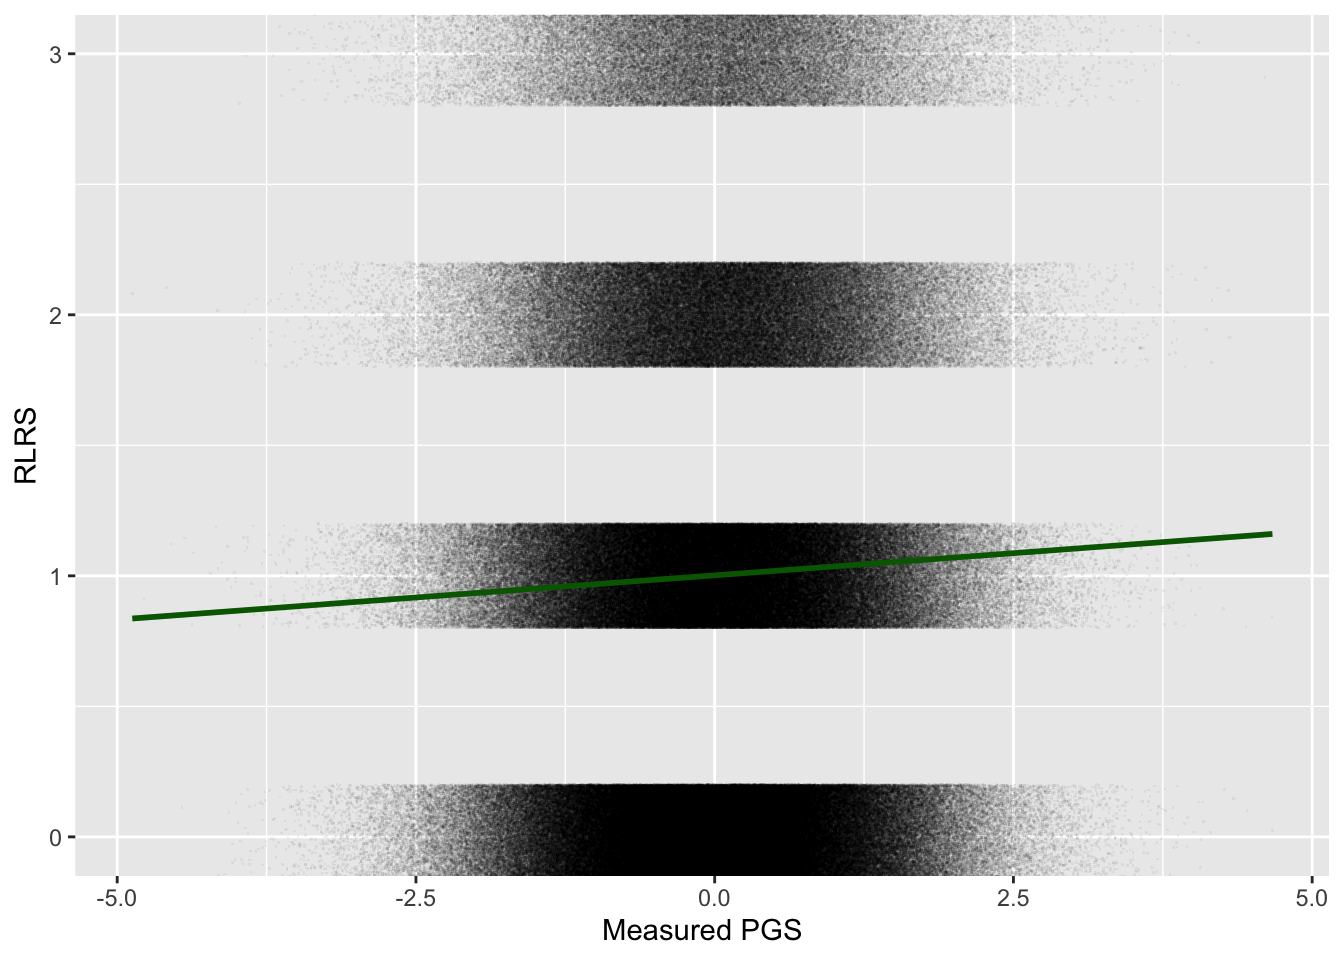
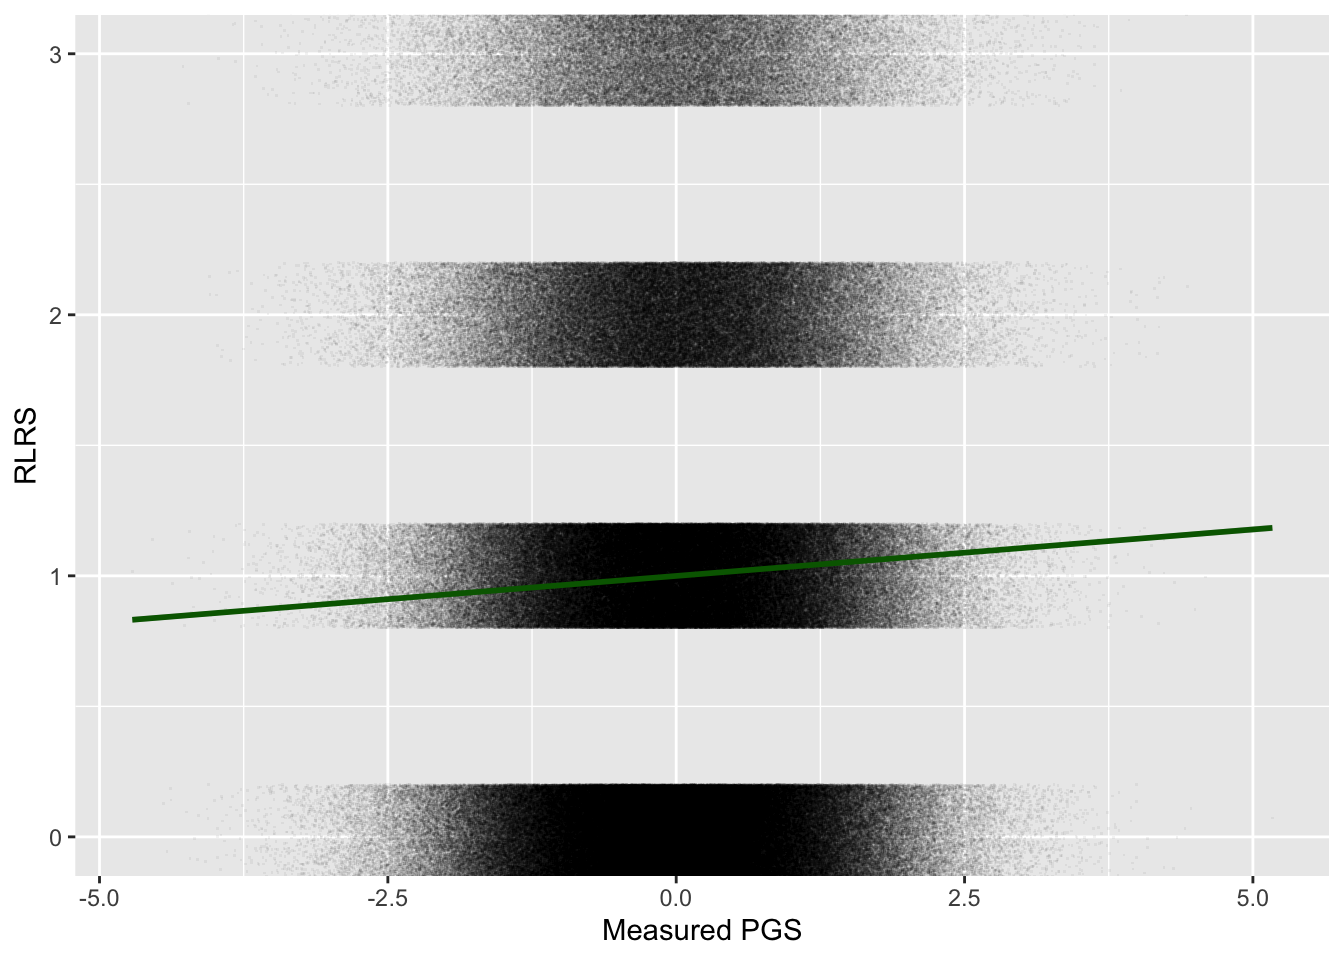
add a missing asterisk

diff --git a/docs/estimating-selection-effects-idiots-guide.html b/docs/estimating-selection-effects-idiots-guide.html
@@ -195,7 +195,7 @@ code span.wa { color: #60a0b0; font-weight: bold; font-style: italic; } /* Warni
 <div class="sourceCode cell-code" id="cb4"><pre class="sourceCode r code-with-copy"><code class="sourceCode r"><span id="cb4-1"><a href="#cb4-1" aria-hidden="true" tabindex="-1"></a><span class="co"># Our PGS is normalized with mean 0 variance 1:</span></span>
 <span id="cb4-2"><a href="#cb4-2" aria-hidden="true" tabindex="-1"></a><span class="fu">mean</span>(pop<span class="sc">$</span>pgs_true)</span></code><button title="Copy to Clipboard" class="code-copy-button"><i class="bi"></i></button></pre></div>
 <div class="cell-output cell-output-stdout">
-<pre><code>[1] 0.000547</code></pre>
+<pre><code>[1] 0.000928</code></pre>
 </div>
 <div class="sourceCode cell-code" id="cb6"><pre class="sourceCode r code-with-copy"><code class="sourceCode r"><span id="cb6-1"><a href="#cb6-1" aria-hidden="true" tabindex="-1"></a><span class="fu">var</span>(pop<span class="sc">$</span>pgs_true)</span></code><button title="Copy to Clipboard" class="code-copy-button"><i class="bi"></i></button></pre></div>
 <div class="cell-output cell-output-stdout">
@@ -257,7 +257,7 @@ pgs = pgs^* + \eta
 <p>where <span class="math inline">\(\eta \sim N(0,\sigma^2_\eta)\)</span>. So <span class="math inline">\(\sigma^2_\eta\)</span> gives the relative amount of error in our measured PGS.</p>
 <p>Of course, we don’t see that variable. If so, we could just calculate <span class="math inline">\(\sigma^2_\eta\)</span> directly by looking at its variance! Instead, we get a standardized PGS with mean 0 variance 1 and we have to estimate how much of that is noise:</p>
 <p><span class="math display">\[
-pgs = \frac{pgs^* + \eta}{sd(pgs)}
+pgs = \frac{pgs^* + \eta}{sd(pgs^*)}
 \]</span></p>
 <div class="cell">
 <div class="sourceCode cell-code" id="cb18"><pre class="sourceCode r code-with-copy"><code class="sourceCode r"><span id="cb18-1"><a href="#cb18-1" aria-hidden="true" tabindex="-1"></a><span class="co"># this is the variance of the error in measured pgs</span></span>
@@ -301,19 +301,19 @@ R^2 (pgs) = R^2 (pgs^*)\times \frac{Var(pgs^*)}{Var(pgs)} \\
 <span id="cb21-2"><a href="#cb21-2" aria-hidden="true" tabindex="-1"></a>cov_rlrs_pgs <span class="ot">&lt;-</span> <span class="fu">cov</span>(pop<span class="sc">$</span>rlrs, pop<span class="sc">$</span>pgs)</span>
 <span id="cb21-3"><a href="#cb21-3" aria-hidden="true" tabindex="-1"></a>cov_rlrs_pgs</span></code><button title="Copy to Clipboard" class="code-copy-button"><i class="bi"></i></button></pre></div>
 <div class="cell-output cell-output-stdout">
-<pre><code>[1] 0.0339</code></pre>
+<pre><code>[1] 0.0356</code></pre>
 </div>
 <div class="sourceCode cell-code" id="cb23"><pre class="sourceCode r code-with-copy"><code class="sourceCode r"><span id="cb23-1"><a href="#cb23-1" aria-hidden="true" tabindex="-1"></a><span class="co"># Or equivalently, since the pgs has variance 1</span></span>
 <span id="cb23-2"><a href="#cb23-2" aria-hidden="true" tabindex="-1"></a>coef_pgs <span class="ot">&lt;-</span> <span class="fu">coef</span>(<span class="fu">lm</span>(rlrs <span class="sc">~</span> pgs, pop))[<span class="st">"pgs"</span>]</span>
 <span id="cb23-3"><a href="#cb23-3" aria-hidden="true" tabindex="-1"></a>coef_pgs</span></code><button title="Copy to Clipboard" class="code-copy-button"><i class="bi"></i></button></pre></div>
 <div class="cell-output cell-output-stdout">
 <pre><code>   pgs 
-0.0339 </code></pre>
+0.0356 </code></pre>
 </div>
 <div class="sourceCode cell-code" id="cb25"><pre class="sourceCode r code-with-copy"><code class="sourceCode r"><span id="cb25-1"><a href="#cb25-1" aria-hidden="true" tabindex="-1"></a><span class="co"># which is close to the average in the next generation:</span></span>
 <span id="cb25-2"><a href="#cb25-2" aria-hidden="true" tabindex="-1"></a><span class="fu">weighted.mean</span>(pop<span class="sc">$</span>pgs, pop<span class="sc">$</span>rlrs)</span></code><button title="Copy to Clipboard" class="code-copy-button"><i class="bi"></i></button></pre></div>
 <div class="cell-output cell-output-stdout">
-<pre><code>[1] 0.0339</code></pre>
+<pre><code>[1] 0.0352</code></pre>
 </div>
 </div>
 <p>Compare the plot of measured PGS <span class="math inline">\(p\)</span> against RLRS to the previous plot, which used the true PGS <span class="math inline">\(p^*\)</span>:</p>
@@ -361,8 +361,8 @@ R^2 (pgs) = R^2 (pgs^*)\times \frac{Var(pgs^*)}{Var(pgs)} \\
 <div class="sourceCode cell-code" id="cb30"><pre class="sourceCode r code-with-copy"><code class="sourceCode r"><span id="cb30-1"><a href="#cb30-1" aria-hidden="true" tabindex="-1"></a><span class="co"># Ratio of coefficients...</span></span>
 <span id="cb30-2"><a href="#cb30-2" aria-hidden="true" tabindex="-1"></a>coef_pgs<span class="sc">/</span>coef_pgs_true_rescaled</span></code><button title="Copy to Clipboard" class="code-copy-button"><i class="bi"></i></button></pre></div>
 <div class="cell-output cell-output-stdout">
-<pre><code>  pgs 
-0.115 </code></pre>
+<pre><code> pgs 
+0.12 </code></pre>
 </div>
 <div class="sourceCode cell-code" id="cb32"><pre class="sourceCode r code-with-copy"><code class="sourceCode r"><span id="cb32-1"><a href="#cb32-1" aria-hidden="true" tabindex="-1"></a><span class="co"># ... is indeed close to ratio of R2 on education, to heritability</span></span>
 <span id="cb32-2"><a href="#cb32-2" aria-hidden="true" tabindex="-1"></a>r2_EA_pgs<span class="sc">/</span>h2</span></code><button title="Copy to Clipboard" class="code-copy-button"><i class="bi"></i></button></pre></div>
@@ -372,7 +372,7 @@ R^2 (pgs) = R^2 (pgs^*)\times \frac{Var(pgs^*)}{Var(pgs)} \\
 </div>
 <p>Of course, as analysts, we don’t observe the real rescaled PGS. We can only check this here because we have simulated our data!</p>
 <p><strong>Step 2.</strong> We want to measure the selection effect of the true PGS in its original form, i.e.&nbsp;with mean 0 and standard deviation 1.</p>
-<p>Recall that the measured PGS was “rescaled” by its standard deviation. This standard deviation (<code>sd_pgs_orig</code> in the code above, which equalled 2.826) is the square root of the total variance of the measured PGS on its original scale:</p>
+<p>Recall that the measured PGS was “rescaled” by its standard deviation. This standard deviation (<code>sd_pgs_orig</code> in the code above, which equalled 2.828) is the square root of the total variance of the measured PGS on its original scale:</p>
 <p><span class="math display">\[
 sd(orig. pgs) =\sqrt{1 + \sigma^2_\eta}
 \]</span></p>
@@ -383,7 +383,7 @@ sd(orig. pgs) =\sqrt{1 + \sigma^2_\eta}
 <span id="cb34-2"><a href="#cb34-2" aria-hidden="true" tabindex="-1"></a></span>
 <span id="cb34-3"><a href="#cb34-3" aria-hidden="true" tabindex="-1"></a>cov_rlrs_pgs_true_hat</span></code><button title="Copy to Clipboard" class="code-copy-button"><i class="bi"></i></button></pre></div>
 <div class="cell-output cell-output-stdout">
-<pre><code>[1] 0.0961</code></pre>
+<pre><code>[1] 0.101</code></pre>
 </div>
 </div>
 <p>And indeed this is close to the original selection effect of 0.1 .</p>
@@ -420,18 +420,18 @@ sd(orig. pgs) =\sqrt{1 + \sigma^2_\eta}
 <div class="sourceCode cell-code" id="cb38"><pre class="sourceCode r code-with-copy"><code class="sourceCode r"><span id="cb38-1"><a href="#cb38-1" aria-hidden="true" tabindex="-1"></a><span class="co"># the selection effect in terms of predicted years of education:</span></span>
 <span id="cb38-2"><a href="#cb38-2" aria-hidden="true" tabindex="-1"></a><span class="fu">cov</span>(pop<span class="sc">$</span>rlrs, pop<span class="sc">$</span>pgs_true_years)</span></code><button title="Copy to Clipboard" class="code-copy-button"><i class="bi"></i></button></pre></div>
 <div class="cell-output cell-output-stdout">
-<pre><code>[1] 0.14</code></pre>
+<pre><code>[1] 0.141</code></pre>
 </div>
 <div class="sourceCode cell-code" id="cb40"><pre class="sourceCode r code-with-copy"><code class="sourceCode r"><span id="cb40-1"><a href="#cb40-1" aria-hidden="true" tabindex="-1"></a><span class="fu">weighted.mean</span>(pop<span class="sc">$</span>pgs_true_years, pop<span class="sc">$</span>rlrs)</span></code><button title="Copy to Clipboard" class="code-copy-button"><i class="bi"></i></button></pre></div>
 <div class="cell-output cell-output-stdout">
-<pre><code>[1] 0.141</code></pre>
+<pre><code>[1] 0.142</code></pre>
 </div>
 <div class="sourceCode cell-code" id="cb42"><pre class="sourceCode r code-with-copy"><code class="sourceCode r"><span id="cb42-1"><a href="#cb42-1" aria-hidden="true" tabindex="-1"></a><span class="co"># our estimate of the selection effect, </span></span>
 <span id="cb42-2"><a href="#cb42-2" aria-hidden="true" tabindex="-1"></a><span class="co"># rescaled by the standard deviation of EA in years:</span></span>
 <span id="cb42-3"><a href="#cb42-3" aria-hidden="true" tabindex="-1"></a>cov_rlrs_pgs_true_hat <span class="sc">*</span> eff_pgs_true</span></code><button title="Copy to Clipboard" class="code-copy-button"><i class="bi"></i></button></pre></div>
 <div class="cell-output cell-output-stdout">
 <pre><code>pgs_true 
-   0.129 </code></pre>
+   0.136 </code></pre>
 </div>
 </div>
 <p>But how do we work out the rescaling factor? We can work it out by taking the square root of the heritability (as an estimate of the effect size of <span class="math inline">\(pgs^*\)</span> on EA in standard deviations); and multiplying by the s.d. of EA in years (here 2):</p>
@@ -439,7 +439,7 @@ sd(orig. pgs) =\sqrt{1 + \sigma^2_\eta}
 <div class="sourceCode cell-code" id="cb44"><pre class="sourceCode r code-with-copy"><code class="sourceCode r"><span id="cb44-1"><a href="#cb44-1" aria-hidden="true" tabindex="-1"></a>eff_pgs_true</span></code><button title="Copy to Clipboard" class="code-copy-button"><i class="bi"></i></button></pre></div>
 <div class="cell-output cell-output-stdout">
 <pre><code>pgs_true 
-    1.34 </code></pre>
+    1.35 </code></pre>
 </div>
 <div class="sourceCode cell-code" id="cb46"><pre class="sourceCode r code-with-copy"><code class="sourceCode r"><span id="cb46-1"><a href="#cb46-1" aria-hidden="true" tabindex="-1"></a><span class="fu">sqrt</span>(h2) <span class="sc">*</span> sd_ea_years</span></code><button title="Copy to Clipboard" class="code-copy-button"><i class="bi"></i></button></pre></div>
 <div class="cell-output cell-output-stdout">
@@ -448,7 +448,7 @@ sd(orig. pgs) =\sqrt{1 + \sigma^2_\eta}
 <div class="sourceCode cell-code" id="cb48"><pre class="sourceCode r code-with-copy"><code class="sourceCode r"><span id="cb48-1"><a href="#cb48-1" aria-hidden="true" tabindex="-1"></a><span class="co"># selection effect measured in years of education</span></span>
 <span id="cb48-2"><a href="#cb48-2" aria-hidden="true" tabindex="-1"></a>cov_rlrs_pgs_true_hat <span class="sc">*</span> <span class="fu">sqrt</span>(h2) <span class="sc">*</span> sd_ea_years</span></code><button title="Copy to Clipboard" class="code-copy-button"><i class="bi"></i></button></pre></div>
 <div class="cell-output cell-output-stdout">
-<pre><code>[1] 0.129</code></pre>
+<pre><code>[1] 0.135</code></pre>
 </div>
 </div>
 </section>
